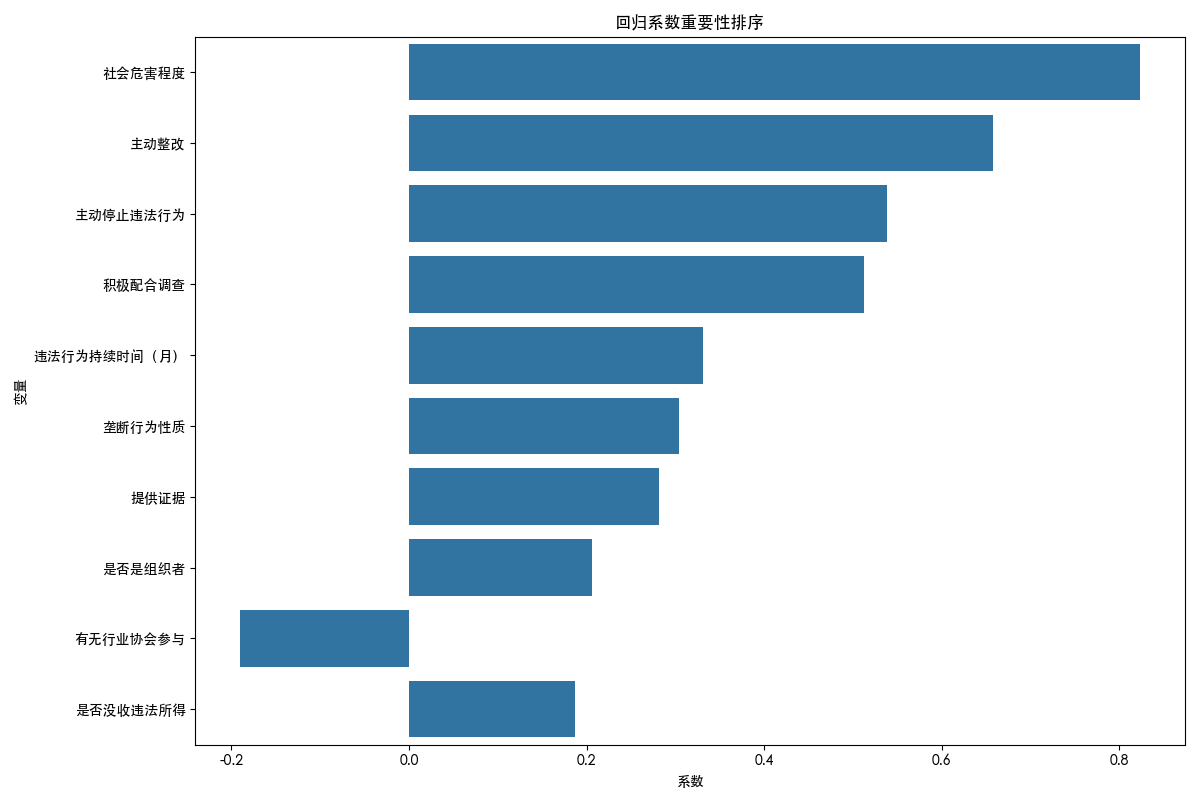
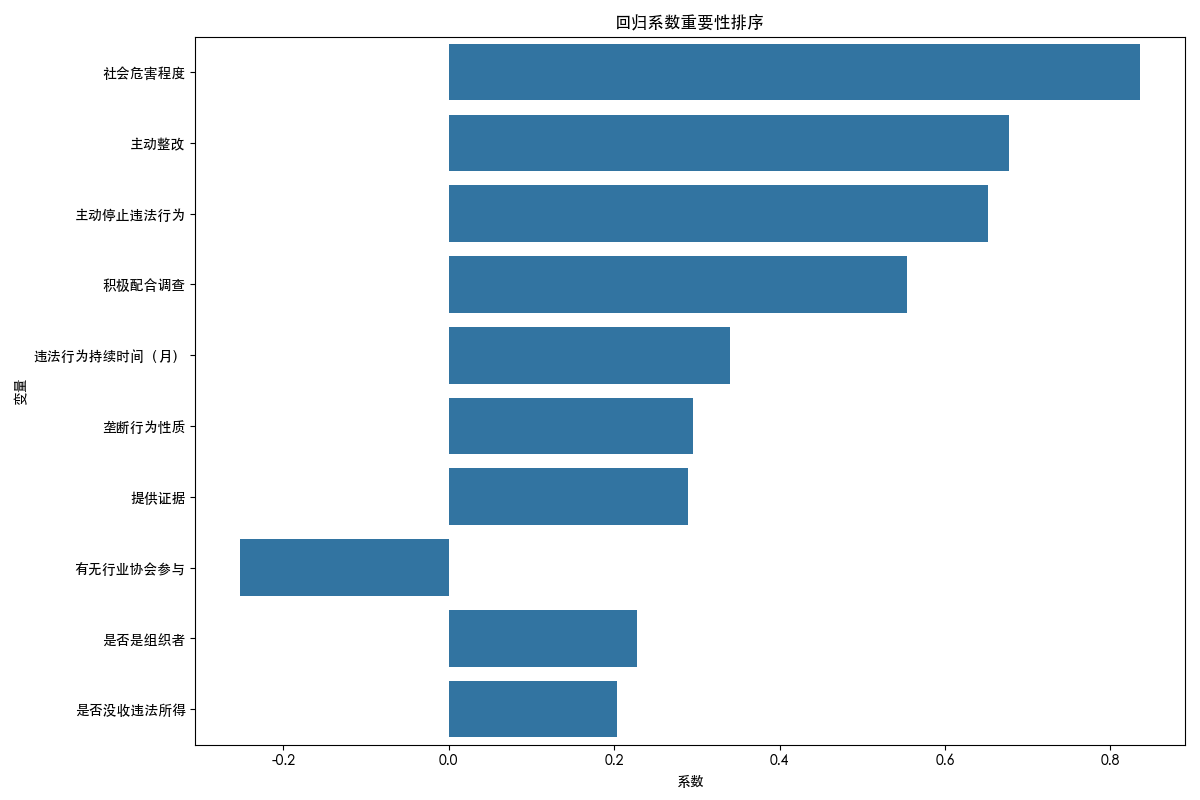
修复回归系数排序问题并添加开题报告

diff --git a/advanced_statistical_analysis.py b/advanced_statistical_analysis.py
@@ -252,9 +252,10 @@ with open(report_path, 'a', encoding='utf-8') as f:
     f.write(f"   平均R²得分: {cv_scores.mean():.4f}\n\n")
 
 # 5. 回归系数可视化
+# 使用statsmodels模型的系数，保持与结论部分一致
 coefficients = pd.DataFrame({
     '变量': X.columns,
-    '系数': model_sklearn.coef_
+    '系数': model.params[1:]  # 跳过常数项
 })
 
 coefficients = coefficients.sort_values(by='系数', key=abs, ascending=False)

diff --git a/开题报告.md b/开题报告.md
@@ -1,0 +1,192 @@
+# 中国反垄断法量裁不确定性高级统计分析开题报告
+
+## 一、研究背景
+
+随着中国市场经济的不断发展和完善，反垄断法作为维护市场竞争秩序、保护消费者利益的重要法律工具，其实施效果日益受到关注。在反垄断执法实践中，罚款金额的确定是一个复杂的决策过程，涉及多种因素的综合考量。然而，当前反垄断法量裁过程中存在一定程度的不确定性，这不仅影响了法律适用的一致性和可预测性，也可能对企业的合规经营和市场信心产生影响。
+
+为了深入理解中国反垄断法量裁的规律和特点，提高量裁的科学性、透明度和可预测性，本研究基于大量反垄断案例数据，运用高级统计分析方法，对影响罚款比例的关键因素进行系统分析，旨在为完善反垄断法量裁标准提供科学依据。
+
+## 二、研究目的
+
+1. 分析中国反垄断法量裁中罚款比例的分布特征和影响因素
+2. 量化各影响因素对罚款比例的影响程度和方向
+3. 揭示反垄断法量裁中的规律和不确定性来源
+4. 为完善反垄断法量裁标准和提高量裁一致性提供政策建议
+
+## 三、研究方法
+
+### （一）数据收集与预处理
+
+1. **数据来源**：收集了770条中国反垄断案例数据，涵盖了2010-2023年间的主要反垄断执法案例
+2. **数据特征**：包含1个连续被解释变量（罚款比例）和10个解释变量（其中1个连续变量，9个分类变量）
+3. **数据预处理步骤**：
+   - 缺失值检查与处理
+   - 分类变量编码（LabelEncoder）
+   - 连续变量标准化（StandardScaler）
+
+### （二）统计分析方法
+
+本研究采用了以下科学统计方法：
+
+1. **描述性统计分析**
+   - 计算均值、中位数、标准差、最小值、最大值等统计指标
+   - 绘制直方图展示变量分布特征
+   - **应用场景**：了解数据基本特征，为后续分析奠定基础
+
+2. **信度检验**
+   - 使用Cronbach's Alpha系数评估多变量测量工具的内部一致性和可靠性
+   - **应用场景**：验证多个变量是否测量同一构念
+   - **结果解释**：Cronbach's Alpha系数为0.1278，表明各变量测量的是不同构念，符合研究设计预期
+
+3. **相关性分析**
+   - 计算Pearson相关系数矩阵
+   - 绘制相关性热力图
+   - **应用场景**：初步探索变量间的线性关系，识别可能的影响因素
+   - **结果解释**：社会危害程度与罚款比例呈中等强度正相关（r=0.4010，p<0.001）
+
+4. **因子分析（主成分分析，PCA）**
+   - 通过降维技术将多个相关变量转换为少数几个不相关的主成分
+   - 计算解释方差比例和累计解释方差比例
+   - 绘制碎石图确定主成分数量
+   - **应用场景**：简化数据结构，识别关键影响因素
+   - **结果解释**：前4个主成分累计解释方差比例达72.95%，可以较好地代表原始变量的信息
+
+5. **回归分析**
+   - 多元线性回归建模（使用statsmodels和scikit-learn）
+   - 多重共线性检验（方差膨胀因子VIF）
+   - 模型评估（R²、MSE、RMSE）
+   - 交叉验证（5折交叉验证）
+   - 回归系数可视化和解释
+   - **应用场景**：量化各因素对罚款比例的影响程度和方向
+   - **结果解释**：模型R²=0.316，F统计量=35.11（p<0.001）表明模型整体显著
+
+## 四、数据变量说明
+
+本研究使用的数据包含以下变量：
+
+| 变量名称 | 变量类型 | 说明 |
+|---------|---------|------|
+| 罚款比例（%） | 连续变量 | 被解释变量，反垄断案件中的罚款比例 |
+| 违法行为持续时间（月） | 连续变量 | 违法行为持续的月数 |
+| 是否没收违法所得 | 二分类变量 | 是否没收违法所得（是/否） |
+| 垄断行为性质 | 多分类变量 | 垄断行为的类型 |
+| 社会危害程度 | 多分类变量 | 违法行为对社会造成的危害程度 |
+| 是否是组织者 | 多分类变量 | 在垄断行为中是否为组织者 |
+| 积极配合调查 | 多分类变量 | 调查过程中的配合程度 |
+| 主动整改 | 多分类变量 | 是否主动采取整改措施 |
+| 主动停止违法行为 | 二分类变量 | 是否主动停止违法行为 |
+| 提供证据 | 二分类变量 | 是否积极提供相关证据 |
+| 有无行业协会参与 | 二分类变量 | 是否有行业协会参与垄断行为 |
+
+## 五、技术实现与代码库
+
+本研究使用了以下主要代码库和工具：
+
+### （一）数据处理和分析
+
+1. **pandas**
+   - 主要功能：数据读取（Excel文件）、数据清洗、数据框操作、描述性统计
+   - 应用场景：整个数据分析流程的数据基础处理
+
+2. **numpy**
+   - 主要功能：数值计算、数组操作、统计函数
+   - 应用场景：支持pandas的数据处理和统计分析
+
+### （二）统计分析
+
+1. **scikit-learn**
+   - 主要功能：数据预处理（StandardScaler）、特征提取（PCA）、机器学习算法（LinearRegression）、模型评估（r2_score, mean_squared_error）、交叉验证
+   - 应用场景：数据标准化、主成分分析、回归建模和评估
+
+2. **statsmodels**
+   - 主要功能：更详细的统计分析（OLS回归）、统计检验、回归结果解释
+   - 应用场景：生成详细的回归分析报告，进行多重共线性检验
+
+3. **pingouin**
+   - 主要功能：高级统计分析，包括信度检验
+   - 应用场景：计算Cronbach's Alpha系数进行信度检验
+
+### （三）数据可视化
+
+1. **matplotlib**
+   - 主要功能：基础绘图功能，包括直方图、散点图、折线图等
+   - 应用场景：生成各种统计图表并保存
+
+2. **seaborn**
+   - 主要功能：高级统计可视化，包括热力图、箱线图、条形图等
+   - 应用场景：生成相关性热力图、回归系数条形图等
+
+3. **ECharts**
+   - 主要功能：交互式JavaScript可视化库
+   - 应用场景：在HTML报告中生成交互式图表
+
+### （四）Web技术（可视化报告）
+
+1. **HTML/CSS**
+   - 主要功能：网页结构和样式设计
+   - 应用场景：构建可视化报告的基础框架
+
+2. **JavaScript**
+   - 主要功能：实现交互功能和动态效果
+   - 应用场景：调用ECharts库生成交互式图表
+
+3. **Bootstrap**
+   - 主要功能：响应式布局和UI组件
+   - 应用场景：使可视化报告适应不同设备屏幕尺寸
+
+## 六、预期研究结果
+
+1. **描述性统计结果**：揭示中国反垄断法量裁中罚款比例的分布特征和基本规律
+
+2. **相关性分析结果**：识别与罚款比例高度相关的关键因素，如社会危害程度、违法行为持续时间等
+
+3. **因子分析结果**：将多个影响因素归纳为少数几个主成分，简化对量裁影响因素的理解
+
+4. **回归分析结果**：量化各因素对罚款比例的影响程度和方向，建立预测模型
+
+5. **政策建议**：基于分析结果，提出完善反垄断法量裁标准、提高量裁一致性的具体建议
+
+## 七、研究意义
+
+1. **理论意义**：丰富中国反垄断法实施效果的实证研究，为反垄断法理论发展提供数据支持
+
+2. **实践意义**：为反垄断执法机构完善量裁标准、提高量裁一致性提供科学依据，增强法律适用的可预测性
+
+3. **企业意义**：帮助企业更好地理解反垄断法量裁的规律，指导企业合规经营，降低法律风险
+
+4. **社会意义**：提高反垄断执法的透明度和公信力，维护公平竞争的市场环境，保护消费者利益
+
+## 八、研究进度安排
+
+1. **第一阶段（第1-2周）**：数据收集与预处理
+   - 收集和整理反垄断案例数据
+   - 进行数据清洗和预处理
+
+2. **第二阶段（第3-4周）**：描述性统计和探索性分析
+   - 进行描述性统计分析
+   - 绘制初步的可视化图表
+   - 进行相关性分析
+
+3. **第三阶段（第5-6周）**：高级统计分析
+   - 进行信度检验
+   - 实施因子分析
+   - 建立和评估回归模型
+
+4. **第四阶段（第7-8周）**：结果解释和报告撰写
+   - 解释分析结果
+   - 提出政策建议
+   - 撰写研究报告和生成可视化报告
+
+## 九、预期成果形式
+
+1. **研究报告**：详细的统计分析报告，包含研究方法、数据分析结果和政策建议
+
+2. **可视化报告**：基于ECharts的交互式可视化报告，直观展示分析结果
+
+3. **代码库**：完整的数据分析代码，包括数据预处理、统计分析和可视化脚本
+
+4. **政策建议**：针对反垄断法量裁标准完善的具体建议文档
+
+---
+
+**日期**：2023年XX月XX日
